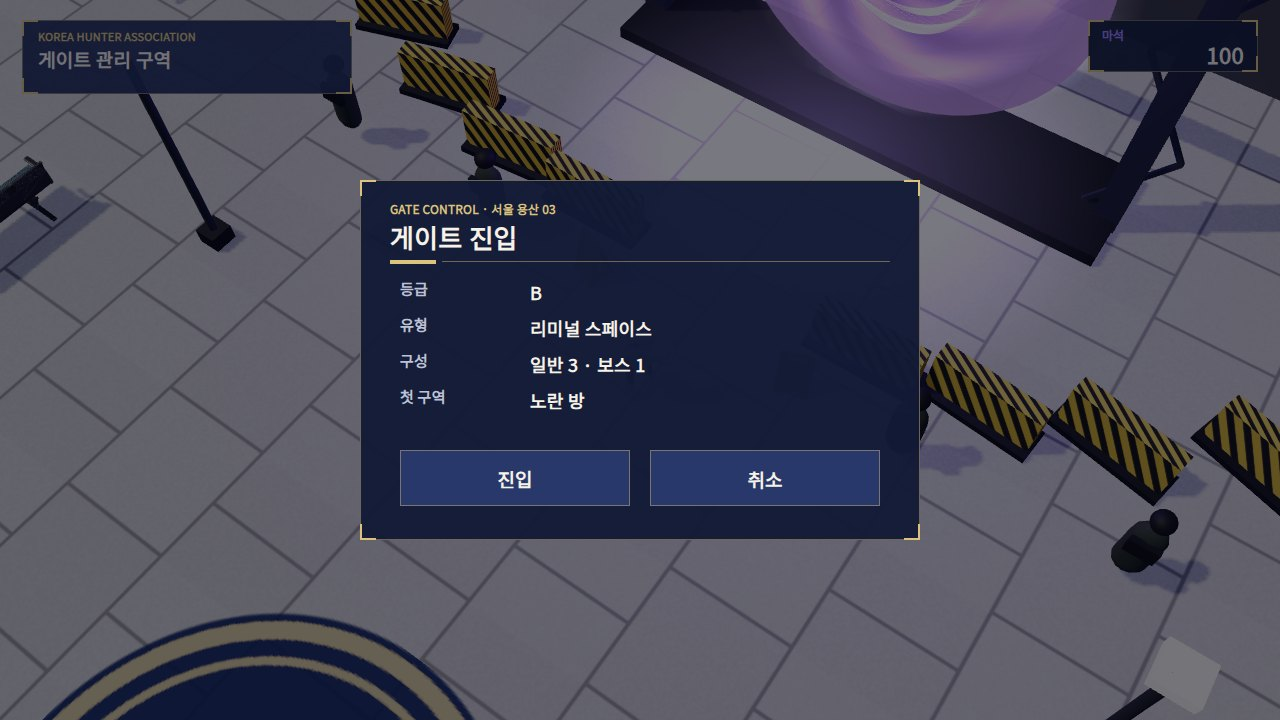
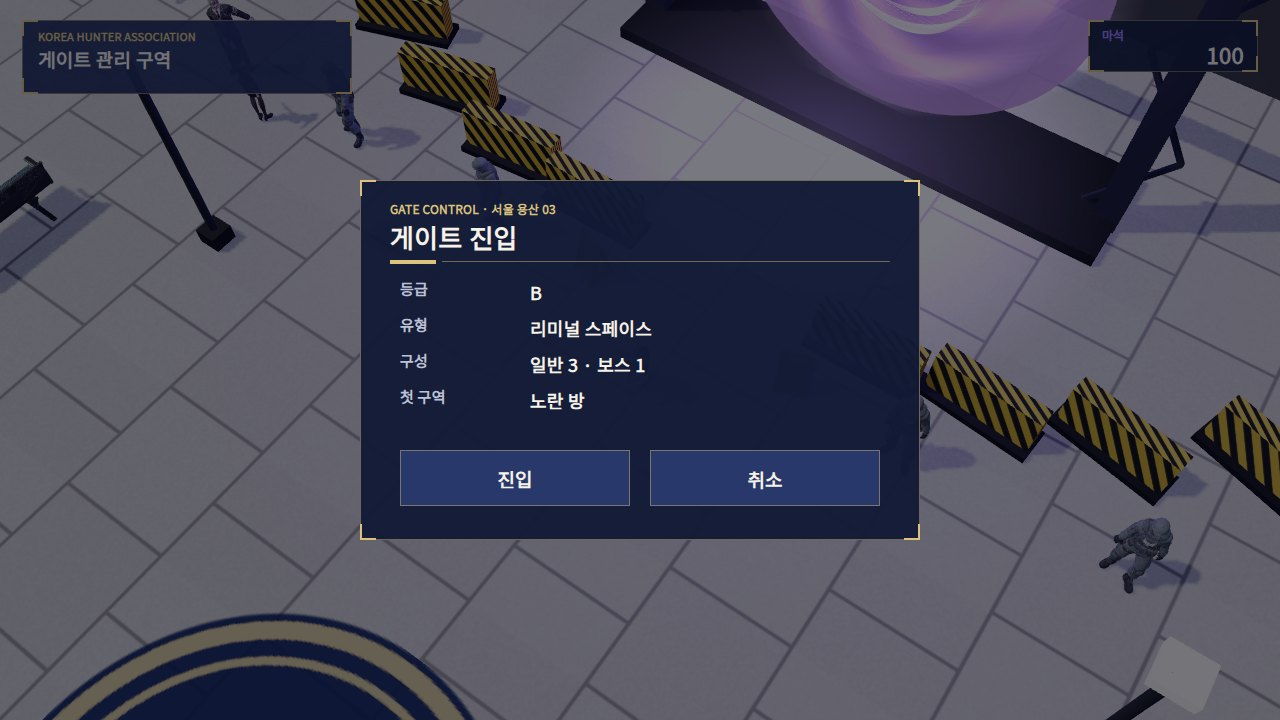
Greet on approach, document the association officials
- The agent bows the first time the hunter walks up in a visit. Talking cuts the bow short, so the window opens on a conversation, not a bow hidden behind it.
- Add the LobbyNpc.cs meta.
- HunterLobby README:
  - officials table, generation pipeline and credits (334);
  - behaviours and new previews (concept to 3D, group shot, staff and guards in the plaza).

Claude-Session: https://claude.ai/code/session_01KjtWDQxPFCBq6PErvCBFQd

diff --git a/Assets/Liminal/Scripts/Lobby/LiminalLobby.cs b/Assets/Liminal/Scripts/Lobby/LiminalLobby.cs
@@ -306,7 +306,10 @@ namespace AcRoguelike.Liminal
                 }
             }
             if (hud) hud.ShowPrompt("E", Nearest != null ? Nearest.label : null);
-            if (agent) agent.LookAt(Nearest != null && Nearest.anchor == agent.transform && run.player ? run.player.position : (Vector3?)null);
+            bool atAgent = agent && Nearest != null && Nearest.anchor == agent.transform && run.player;
+            if (agent) agent.LookAt(atAgent ? run.player.position : (Vector3?)null);
+            // The agent greets the hunter with a formal bow the first time they walk up in this visit.
+            if (atAgent && !greeted) { greeted = true; agent.PlayOnce("bow"); }
             if (interact && Nearest != null) Nearest.use();
         }
 
@@ -385,12 +388,7 @@ namespace AcRoguelike.Liminal
         void OpenUpgrades()
         {
             if (!hud || !hud.Canvas) return;
-            if (agent)
-            {
-                agent.Talk(true);
-                // A formal bow the first time the hunter walks up in this visit, then she talks.
-                if (!greeted) { greeted = true; agent.PlayOnce("bow"); }
-            }
+            if (agent) agent.Talk(true);
             ShowWindow(new Vector2(760, 470));
             var content = window.transform.Find("Window") as RectTransform;
             var font = hud.Font;

diff --git a/Assets/Liminal/Scripts/Lobby/LobbyNpc.cs b/Assets/Liminal/Scripts/Lobby/LobbyNpc.cs
@@ -144,11 +144,22 @@ namespace AcRoguelike.Liminal
             if (!keepPhase) inputs[index].SetTime(0);
         }
 
-        /// <summary>Conversation with the player: the talking loop, facing the player.</summary>
+        /// <summary>Conversation with the player: the talking loop, facing the player. A greeting in progress is cut
+        /// short so the conversation starts at once.</summary>
         public void Talk(bool on)
         {
             talking = on;
+            if (on) StopOnce();
             Play(on ? "talk" : "idle");
+        }
+
+        /// <summary>Ends a one-shot early; it fades back into the loop.</summary>
+        public void StopOnce()
+        {
+            if (once < 0) return;
+            once = -1;
+            var done = onceDone; onceDone = null;
+            done?.Invoke();
         }
 
         public void LookAt(Vector3? target) => lookTarget = target;

diff --git a/Documentation/Liminal/HunterLobby/README.md b/Documentation/Liminal/HunterLobby/README.md
@@ -4,11 +4,17 @@
 
 버튼 목록으로 된 로비가 아니다. 플레이어가 평상복 차림으로 광장을 걸어 다니며 협회 요원에게 말을 걸어 강화하고, 게이트 앞에서 상호작용해 던전에 들어간다. 컨셉 기획서(현대 판타지 헌터물, 서울에 열린 게이트, 일상복과 던전복의 갭)에 맞췄다.
 
+광장에 있는 사람은 모두 컨셉 아트의 협회 직원을 Meshy로 옮긴 캐릭터다([협회 직원](#협회-직원-meshy)). 요원, 직원 셋, 경비 넷이 있다.
+
 | 걸어 다니기 · 상호작용 키 | 요원 대화 · 강화 | 게이트 진입 확인 |
 | --- | --- | --- |
 | ![](lobby_walk.jpg) | ![](lobby_upgrade.jpg) | ![](lobby_gate.jpg) |
 
-미리보기는 `LiminalLobby.Construct`의 배치를 three.js로 재현하고, HUD와 창을 `HunterUi`의 좌표·색·글꼴 크기로 그린 것이다. 캐릭터는 리깅된 FBX를 그대로 불러온 기본 자세다(게임에서는 애니메이션이 재생된다).
+| 휴게 구역의 국장과 신입 | 통제선의 경비 |
+| --- | --- |
+| ![](lobby_staff.jpg) | ![](lobby_guards.jpg) |
+
+미리보기는 `LiminalLobby.Construct`의 배치를 three.js로 재현하고, HUD와 창을 `HunterUi`의 좌표·색·글꼴 크기로 그린 것이다. 직원과 경비는 게임과 같은 Meshy 클립의 한 순간을 재생한 자세다. 플레이어는 대기 자세의 대역이다.
 
 ## 흐름
 
@@ -18,7 +24,8 @@
    - 키보드: `E`로 상호작용, `ESC`로 닫기
    - 패드: 아래 버튼으로 상호작용, 오른쪽 버튼으로 닫기
 4. **요원 한서윤**(능력 개발부)에게 말을 걸면 강화 창이 열린다.
-   - 요원은 플레이어 쪽으로 몸을 돌리고, 대화 중에는 손짓하며 말하는 동작을 한다.
+   - 요원은 플레이어 쪽으로 몸을 돌린다. 이번 방문에서 처음 다가가면 정중하게 인사한다(인사 중에 말을 걸면 인사를 끊고 바로 대화한다). 대화 중에는 손짓하며 말한다.
+   - 요원은 컨셉 아트처럼 클립보드를 들고 있다.
 5. **게이트**에 상호작용하면 진입 확인 창이 열린다. 창에는 등급, 유형, 구성, 첫 구역이 나온다.
 6. `진입`을 누르면 다음 순서로 던전에 들어간다.
    1. 화면이 보라색으로 덮인다.
@@ -65,22 +72,79 @@
 | --- | --- |
 | 바닥 | 석재 포장(절차 텍스처), 바깥 아스팔트, 44×36m 보이지 않는 경계벽 |
 | 게이트 | 트러스 기둥 두 개, 조명, 받침대. 보라 균열 원판과 소용돌이 원판 네 겹이 돈다. 바닥 발광과 보라 점광원이 있다. |
-| 통제선 | 노랑·검정 바리케이드 호, 경비 실루엣 4명 |
+| 통제선 | 노랑·검정 바리케이드 호. 협회 경비 4명이 광장 쪽을 보고 서서 가끔 주변을 살핀다. |
 | 협회 부스 | 파란 천막, 협회 날개 엠블럼 휘장, 접수 책상. 요원은 부스 앞에 선다. |
+| 휴게 구역 | 국장이 신입 직원에게 지시하는 중이다. 둘이 마주 보고 번갈아 말한다. |
+| 순찰 | 직원 한 명이 부스와 입구 사이를 돈다. 멈출 때마다 기다리거나 통화하고, 플레이어가 앞을 막으면 멈춰서 쳐다본다. |
 | 바닥 엠블럼 | 광장 중앙의 7m 협회 엠블럼(네이비 원, 금빛 고리, 날개) |
 | 장식 | 컨셉 맵 소품(대기 의자, 자판기, 정수기, 화분, 휴지통, 주의 표지판, 안내 키오스크, 접이식 차단봉), 가로등 4개, 협회 배너 6개 |
 | 원경 | 창문이 빛나는 빌딩 스카이라인, 남산과 N서울타워 |
 
 소품 프리팹은 `LiminalMonsterLibrary`의 로비 장식 칸에서 가져온다.
 
-## 캐릭터 (Meshy)
+## 협회 직원 (Meshy)
+
+![협회 직원](officials_group.jpg)
+
+컨셉 아트 오른쪽의 협회 직원(안경, 낮게 묶은 머리, 벨트를 맨 차콜 정장, 넥타이, ID 카드)을 기준으로 만들었다. 손으로 도형을 쌓아 만든 사람은 없다.
+
+| 캐릭터 | 모습 | 동작 (라이브러리 id) | 로비에서 하는 일 |
+| --- | --- | --- | --- |
+| `association_agent` 한서윤 요원 | 컨셉 아트의 그 직원. 안경, 묶은 머리, 스커트 정장 | 대기 Idle_3(243), 대화 313, 인사 Formal Bow(41) | 부스 앞. 강화 창 담당. 왼손에 협회 엠블럼 클립보드 |
+| `association_clerk` 직원 | 20대 남성, 같은 제복 바지 정장 | 대기 Idle_9(249), 걷기 Casual Walk(30), 통화 Phone Conversation(312) | 순찰. 왼손에 서류철 |
+| `association_officer` 신입 직원 | 20대 여성, 단발, 머리핀, 검은 스타킹 | 대기 Idle_7(247), 대화 Stand and Chat(56), 걷기(1) | 휴게 구역에서 국장과 대화 |
+| `association_director` 국장 | 40대 남성, 희끗한 머리, 사각 안경, 금테 엠블럼 완장 | 대기 Idle_11(251), 지시 Talk with Right Hand Open(314) | 휴게 구역에서 신입에게 지시 |
+| `association_guard` 경비 | 회색 전술복, 헬멧, 날개 엠블럼 방탄조끼, 무기 없음 | 대기 Idle_11(251), 살피기 Short Breathe and Look Around(338) | 통제선 4곳 |
+
+라이브러리 0번 `Idle`은 다리를 벌리고 몸을 돌리는 준비 자세라 쓰지 않았다. 차분한 대기 동작으로 바꿨다.
+
+![컨셉에서 3D로](officials_concept_to_3d.jpg)
+
+위는 고른 컨셉 시트, 아래는 Meshy 3D 결과다.
+
+**만드는 과정** (`Tools/LiminalLobby/meshy_lobby.py`, `OFFICIALS`)
+
+1. 참고 이미지에서 직원과 경비를 잘라 둔다(`Tools/LiminalLobby/Reference/official.png`, `guards.png`).
+2. image-to-image로 전신 A 포즈 캐릭터 시트를 그린다.
+   - 빈손, 흰 배경, 같은 제복 설계로 그린다.
+   - 캐릭터마다 두 모델(`nano-banana-pro`, `gpt-image-2`)로 후보를 하나씩 만든다.
+3. 후보 중 하나를 고른다(`pick`).
+   - 요원은 컨셉 아트를 가장 닮은 쪽을 골랐다.
+   - 나머지는 팔이 몸에서 잘 떨어진 A 포즈 쪽을 골랐다(리깅 품질).
+4. image-to-3d(`meshy-7.1`, `pose_mode: a-pose`, 2만 삼각형)로 3D를 만든다.
+5. 리깅한다.
+6. 라이브러리 동작을 입힌다.
+   - 동작 FBX는 `extract_armature`로 뼈대만 받는다(약 220KB).
+   - 메시는 `<이름>.fbx` 한 곳에만 있다. Unity에서 Humanoid로 리타깃해 재생한다.
+
+**동작 (`LobbyNpc`, `LobbyRoutine`)**
+
+- Playables 믹서로 반복 동작을 0.3초에 걸쳐 섞는다. 인사 같은 한 번짜리 동작은 끝나면 원래 반복 동작으로 돌아간다.
+- 같은 경비 네 명이 똑같이 움직이지 않도록 시작 시점을 무작위로 어긋나게 한다.
+- `Station`: 자리를 지키며 가끔 활동 동작을 한다.
+- `Chat`: 상대를 보고 말하기와 듣기를 번갈아 한다.
+- `Patrol`: 지점을 돌며 걷는다. 지점마다 2.5–5.5초 멈춘다. 몸이 진행 방향을 향한 뒤에 걷는다.
+- 누구든 플레이어가 2.3m 안에 오면 플레이어를 쳐다본다.
+- 클립보드(`HeldBoard`)는 매 프레임 손 뼈를 따라간다.
+  - 리그의 뼈 축과 상관없도록 월드 기준으로 계산한다.
+  - 위쪽 가장자리를 쥔 채 손 아래로 늘어지고, 앞면은 몸 바깥을 본다.
+
+- 재생성: `python Tools/LiminalLobby/meshy_lobby.py concept|pick|run --character <이름>`
+- 직원 다섯 명에 Meshy 크레딧 334를 썼다.
+  - 컨셉 후보 10장: 105
+  - 3D: 150
+  - 리깅: 25
+  - 동작: 39
+  - 대기 동작 교체: 15
+
+## 플레이어 평상복 (Meshy)
 
 ![Meshy 캐릭터](meshy_characters.jpg)
 
 | 캐릭터 | 결과 | 사용 |
 | --- | --- | --- |
 | `player_casual` | 연보라 트윈테일, 흰 티셔츠, 카고 반바지, 운동화 | 로비에서 플레이어 모델을 이것으로 바꾼다. 플레이어의 Humanoid 이동 컨트롤러를 그대로 공유하고, 전투 모델 키에 맞춘다. 카타나는 숨긴다. |
-| `association_staff` | 네이비 정장, 협회 배지 | 요원 NPC. 라이브러리 동작 `Idle`(0)과 `Talk with Hands Open`(313)을 Playables 믹서로 섞어 반복 재생한다. |
+| `association_staff` (예전 요원) | 네이비 정장 | 지금은 쓰지 않는다. 컨셉 아트 기반의 `association_agent`로 바꿨다. 파일은 남겨 두었다. |
 
 - 생성 과정: text-to-3d v2(A 포즈, preview → refine) → rigging v1 → animations v1. 모델은 `meshy-7.1`이다.
 - 사용한 크레딧은 76이다.
@@ -109,6 +173,11 @@
 
 - FBX의 Humanoid 아바타 자동 매핑을 확인한다(Meshy 리그 → Unity Humanoid).
 - 평상복 모델이 플레이어 컨트롤러의 이동 애니메이션을 제대로 리타깃하는지, 키 맞춤이 맞는지 확인한다.
-- 요원 NPC의 Playables 반복 재생과 대기·대화 전환을 확인한다.
+- 직원·경비 NPC를 확인한다.
+  - 뼈대 전용 동작 FBX가 Humanoid로 들어오는지 확인한다(아바타 자동 생성).
+  - 동작을 섞고 인사 뒤 원래 동작으로 돌아오는지 확인한다.
+  - 순찰 걸음 속도(1.15m/s)와 발 미끄러짐을 확인한다.
+  - 클립보드 위치를 확인한다.
+- Meshy 텍스처에는 UV 경계를 따라 옅은 선이 보이는 곳이 있다. 로비 카메라 거리에서는 거의 보이지 않는다.
 - 게이트 페이드 타이밍(덮기 0.55초, 0.6초에 런 시작, 1.25초에 걷힘)을 확인한다.
 - `LiminalPlayValidation`은 로비에서 시작해 요원과 게이트가 있는지 확인한 뒤 `EnterDungeon`으로 런을 시작한다.
